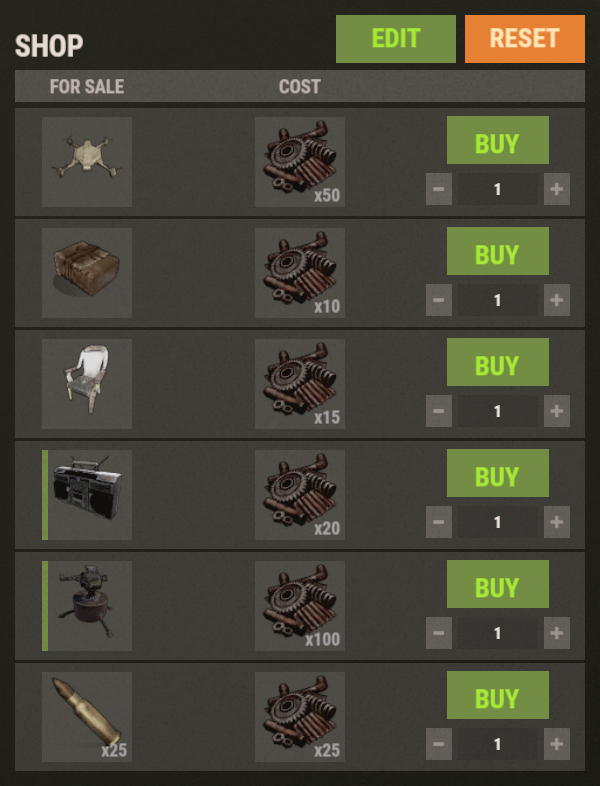
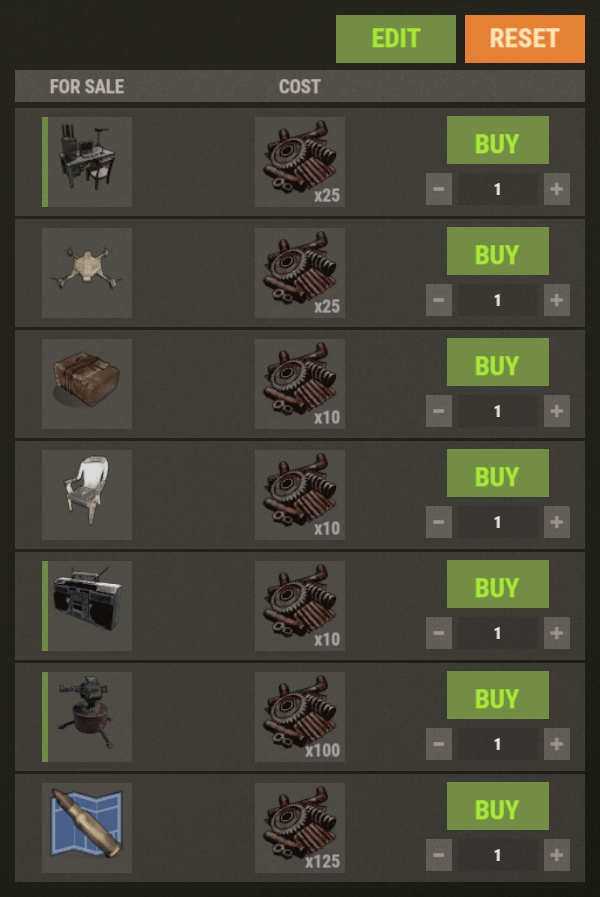
Allow editing stock settings per item

diff --git a/CustomVendingSetup.cs b/CustomVendingSetup.cs
@@ -15,7 +15,7 @@ using static VendingMachine;
 
 namespace Oxide.Plugins
 {
-    [Info("Custom Vending Setup", "WhiteThunder", "2.1.0")]
+    [Info("Custom Vending Setup", "WhiteThunder", "2.2.0")]
     [Description("Allows editing orders at NPC vending machines.")]
     internal class CustomVendingSetup : CovalencePlugin
     {
@@ -31,13 +31,12 @@ namespace Oxide.Plugins
 
         private const string StoragePrefab = "assets/prefabs/deployable/large wood storage/box.wooden.large.prefab";
 
-        private const int NoteItemId = 1414245162;
         private const int ItemsPerRow = 6;
 
         // Going over 7 causes offers to get cut off regardless of resolution.
         private const int MaxVendingOffers = 7;
 
-        private const int NoteSlot = 5;
+        private const int ShopNameNoteSlot = 29;
         private const int ContainerCapacity = 30;
         private const int MaxItemRows = ContainerCapacity / ItemsPerRow;
 
@@ -50,6 +49,7 @@ namespace Oxide.Plugins
         );
 
         private ItemDefinition _blueprintDefinition;
+        private ItemDefinition _noteItemDefinition;
         private bool _serverInitialized = false;
 
         #endregion
@@ -93,6 +93,7 @@ namespace Oxide.Plugins
             Subscribe(nameof(OnEntitySpawned));
 
             _blueprintDefinition = ItemManager.FindItemDefinition("blueprintbase");
+            _noteItemDefinition = ItemManager.FindItemDefinition("note");
             _serverInitialized = true;
         }
 
@@ -401,7 +402,7 @@ namespace Oxide.Plugins
             return offers;
         }
 
-        private static VendingOffer[] GetOffersFromContainer(ItemContainer container)
+        private static VendingOffer[] GetOffersFromContainer(BasePlayer player, ItemContainer container)
         {
             var offers = new List<VendingOffer>();
 
@@ -409,18 +410,15 @@ namespace Oxide.Plugins
             {
                 for (var rowIndex = 0; rowIndex < MaxItemRows; rowIndex++)
                 {
-                    var sellItemSlot = rowIndex * ItemsPerRow + columnIndex * 2;
+                    var sellItemSlot = rowIndex * ItemsPerRow + columnIndex * 3;
 
                     var sellItem = container.GetSlot(sellItemSlot);
                     var currencyItem = container.GetSlot(sellItemSlot + 1);
+                    var settingsItem = container.GetSlot(sellItemSlot + 2);
                     if (sellItem == null || currencyItem == null)
                         continue;
 
-                    offers.Add(new VendingOffer
-                    {
-                        SellItem = VendingItem.FromItem(sellItem),
-                        CurrencyItem = VendingItem.FromItem(currencyItem),
-                    });
+                    offers.Add(VendingOffer.FromItems(player, sellItem, currencyItem, settingsItem));
                 }
             }
 
@@ -455,10 +453,10 @@ namespace Oxide.Plugins
             if (orderIndex < MaxItemRows)
                 return orderIndex * ItemsPerRow;
 
-            return (orderIndex % MaxItemRows) * ItemsPerRow + 2;
+            return (orderIndex % MaxItemRows) * ItemsPerRow + 3;
         }
 
-        private static StorageContainer CreateOrdersContainer(VendingOffer[] vendingOffers, string shopName)
+        private static StorageContainer CreateOrdersContainer(BasePlayer player, VendingOffer[] vendingOffers, string shopName)
         {
             var containerEntity = CreateContainerEntity(StoragePrefab);
 
@@ -466,7 +464,7 @@ namespace Oxide.Plugins
             container.allowedContents = ItemContainer.ContentsType.Generic;
             container.capacity = ContainerCapacity;
 
-            for (var orderIndex = 0; orderIndex < vendingOffers.Length && orderIndex < 2 * MaxItemRows; orderIndex++)
+            for (var orderIndex = 0; orderIndex < vendingOffers.Length && orderIndex < 9; orderIndex++)
             {
                 var offer = vendingOffers[orderIndex];
                 var sellItem = offer.SellItem.Create();
@@ -489,12 +487,37 @@ namespace Oxide.Plugins
                     currencyItem.Remove();
             }
 
-            var noteItem = ItemManager.CreateByItemID(NoteItemId);
-            if (noteItem != null)
+            // Add 7 note items, so the user doesn't have to make them.
+            for (var orderIndex = 0; orderIndex < 7; orderIndex++)
             {
-                noteItem.text = shopName;
-                if (!noteItem.MoveToContainer(container, NoteSlot))
-                    noteItem.Remove();
+                var offer = vendingOffers.Length > orderIndex
+                    ? vendingOffers[orderIndex]
+                    : null;
+
+                var settingsItem = ItemManager.Create(_pluginInstance._noteItemDefinition);
+                if (settingsItem == null)
+                    continue;
+
+                var refillMaxLabel = _pluginInstance.GetMessage(player, Lang.SettingsRefillMax);
+                var refillDelayLabel = _pluginInstance.GetMessage(player, Lang.SettingsRefillDelay);
+                var refillAmountLabel = _pluginInstance.GetMessage(player, Lang.SettingsRefillAmount);
+
+                settingsItem.text = $"{refillMaxLabel}: {offer?.RefillMax ?? VendingOffer.DefaultRefillMax}"
+                    + $"\n{refillDelayLabel}: {offer?.RefillDelay ?? VendingOffer.DefaultRefillDelay}"
+                    + $"\n{refillAmountLabel}: {offer?.RefillAmount ?? VendingOffer.DefaultRefillAmount}";
+
+                var destinationSlot = OrderIndexToSlot(orderIndex);
+
+                if (!settingsItem.MoveToContainer(container, destinationSlot + 2))
+                    settingsItem.Remove();
+            }
+
+            var generalSettingsItem = ItemManager.Create(_pluginInstance._noteItemDefinition);
+            if (generalSettingsItem != null)
+            {
+                generalSettingsItem.text = shopName;
+                if (!generalSettingsItem.MoveToContainer(container, ShopNameNoteSlot))
+                    generalSettingsItem.Remove();
             }
 
             return containerEntity;
@@ -745,13 +768,14 @@ namespace Oxide.Plugins
 
                 var forSaleText = _pluginInstance.GetMessage(player, Lang.InfoForSale);
                 var costText = _pluginInstance.GetMessage(player, Lang.InfoCost);
-                var shopNameText = _pluginInstance.GetMessage(player, Lang.InfoShopName);
+                var settingsText = _pluginInstance.GetMessage(player, Lang.InfoSettings);
 
                 AddHeaderLabel(cuiElements, uiScale, 0, forSaleText);
                 AddHeaderLabel(cuiElements, uiScale, 1, costText);
-                AddHeaderLabel(cuiElements, uiScale, 2, forSaleText);
-                AddHeaderLabel(cuiElements, uiScale, 3, costText);
-                AddHeaderLabel(cuiElements, uiScale, 5, shopNameText);
+                AddHeaderLabel(cuiElements, uiScale, 2, settingsText);
+                AddHeaderLabel(cuiElements, uiScale, 3, forSaleText);
+                AddHeaderLabel(cuiElements, uiScale, 4, costText);
+                AddHeaderLabel(cuiElements, uiScale, 5, settingsText);
 
                 CreateUI(player, cuiElements);
             }
@@ -1085,10 +1109,10 @@ namespace Oxide.Plugins
                     _pluginData.VendingProfiles.Add(Profile);
                 }
 
-                Profile.Offers = GetOffersFromContainer(Container.inventory);
+                Profile.Offers = GetOffersFromContainer(EditorPlayer, Container.inventory);
                 Profile.Broadcast = EditFormState.Broadcast;
 
-                var updatedShopName = Container.inventory.GetSlot(NoteSlot)?.text.Trim();
+                var updatedShopName = Container.inventory.GetSlot(ShopNameNoteSlot)?.text.Trim();
                 if (!string.IsNullOrEmpty(updatedShopName))
                     Profile.ShopName = updatedShopName;
 
@@ -1121,7 +1145,7 @@ namespace Oxide.Plugins
 
                 var offers = Profile?.Offers ?? GetOffersFromVendingMachine(vendingMachine);
 
-                Container = CreateOrdersContainer(offers, vendingMachine.shopName);
+                Container = CreateOrdersContainer(player, offers, vendingMachine.shopName);
                 EditFormState = EditFormState.FromVendingMachine(vendingMachine);
                 Container.SendAsSnapshot(player.Connection);
                 Container.PlayerOpenLoot(player, Container.panelName, doPositionChecks: false);
@@ -1462,6 +1486,10 @@ namespace Oxide.Plugins
 
         private class VendingOffer
         {
+            public const int DefaultRefillMax = 10;
+            public const int DefaultRefillDelay = 10;
+            public const int DefaultRefillAmount = 1;
+
             public static VendingOffer FromVanillaSellOrder(SellOrder sellOrder)
             {
                 return new VendingOffer
@@ -1481,23 +1509,75 @@ namespace Oxide.Plugins
                 };
             }
 
+            public static VendingOffer FromItems(BasePlayer player, Item sellItem, Item currencyItem, Item settingsItem)
+            {
+                var offer = new VendingOffer
+                {
+                    SellItem = VendingItem.FromItem(sellItem),
+                    CurrencyItem = VendingItem.FromItem(currencyItem),
+                };
+
+                if (settingsItem != null)
+                {
+                    var refillMaxLabel = _pluginInstance.GetMessage(player, Lang.SettingsRefillMax);
+                    var refillDelayLabel = _pluginInstance.GetMessage(player, Lang.SettingsRefillDelay);
+                    var refillAmountLabel = _pluginInstance.GetMessage(player, Lang.SettingsRefillAmount);
+
+                    var settings = ParseSettingsItem(settingsItem);
+                    int refillMax, refillDelay, refillAmount;
+
+                    if (settings.TryGetValue(refillMaxLabel, out refillMax))
+                        offer.RefillMax = refillMax;
+
+                    if (settings.TryGetValue(refillDelayLabel, out refillDelay))
+                        offer.RefillDelay = refillDelay;
+
+                    if (settings.TryGetValue(refillAmountLabel, out refillAmount))
+                        offer.RefillAmount = refillAmount;
+                }
+
+                return offer;
+            }
+
+            private static Dictionary<string, int> ParseSettingsItem(Item settingsItem)
+            {
+                var dict = new Dictionary<string, int>();
+                if (string.IsNullOrEmpty(settingsItem.text))
+                    return dict;
+
+                foreach (var line in settingsItem.text.Split('\n'))
+                {
+                    var parts = line.Split(':');
+                    if (parts.Length < 2)
+                        continue;
+
+                    int value;
+                    if (!int.TryParse(parts[1], out value))
+                        continue;
+
+                    dict[parts[0].Trim()] = value;
+                }
+
+                return dict;
+            }
+
             [JsonProperty("SellItem")]
             public VendingItem SellItem;
 
             [JsonProperty("CurrencyItem")]
             public VendingItem CurrencyItem;
 
-            [JsonProperty("RefillAmount", DefaultValueHandling = DefaultValueHandling.Ignore)]
-            [DefaultValue(1)]
-            public int RefillAmount = 1;
+            [JsonProperty("RefillMax", DefaultValueHandling = DefaultValueHandling.Ignore)]
+            [DefaultValue(DefaultRefillMax)]
+            public int RefillMax = DefaultRefillMax;
 
             [JsonProperty("RefillDelay", DefaultValueHandling = DefaultValueHandling.Ignore)]
-            [DefaultValue(10f)]
-            public float RefillDelay = 10;
+            [DefaultValue(DefaultRefillDelay)]
+            public int RefillDelay = DefaultRefillDelay;
 
-            [JsonProperty("RefillMax", DefaultValueHandling = DefaultValueHandling.Ignore)]
-            [DefaultValue(10)]
-            public int RefillMax = 10;
+            [JsonProperty("RefillAmount", DefaultValueHandling = DefaultValueHandling.Ignore)]
+            [DefaultValue(DefaultRefillAmount)]
+            public int RefillAmount = DefaultRefillAmount;
 
             private SellOrder _sellOrder;
             [JsonIgnore]
@@ -1687,7 +1767,10 @@ namespace Oxide.Plugins
             public const string ButtonSave = "Button.Save";
             public const string ButtonCancel = "Button.Cancel";
             public const string InfoCost = "Info.Cost";
-            public const string InfoShopName = "Info.Name";
+            public const string InfoSettings = "Info.Settings";
+            public const string SettingsRefillMax = "Settings.RefillMax";
+            public const string SettingsRefillDelay = "Settings.RefillDelay";
+            public const string SettingsRefillAmount = "Settings.RefillAmount";
             public const string ErrorCurrentlyBeingEdited = "Error.CurrentlyBeingEdited";
         }
 
@@ -1701,7 +1784,10 @@ namespace Oxide.Plugins
                 [Lang.ButtonReset] = "RESET",
                 [Lang.InfoForSale] = "FOR SALE",
                 [Lang.InfoCost] = "COST",
-                [Lang.InfoShopName] = "NAME",
+                [Lang.InfoSettings] = "SETTINGS",
+                [Lang.SettingsRefillMax] = "Max Stock",
+                [Lang.SettingsRefillDelay] = "Seconds Between Refills",
+                [Lang.SettingsRefillAmount] = "Refill Amount",
                 [Lang.ErrorCurrentlyBeingEdited] = "That vending machine is currently being edited by {0}.",
             }, this, "en");
         }

diff --git a/README.md b/README.md
@@ -7,9 +7,9 @@
 - Allows customizing items sold at monument vending machines
 - Supports vanilla monuments, custom monuments, train tunnels, and underwater labs (via Monument Finder)
 - Saves customizations for future restarts and wipes, based on the vending machine's relative position to the monument
-- Synchronizes orders with copies of the vending machines at duplicate monuments
+- Synchronizes edits with copies of the vending machines at duplicate monuments
 - Compatible with NPC vending machines spawned at monuments by plugins such as [Monument Addons](https://umod.org/plugins/monument-addons)
-- Supports items with custom skins and names
+- Supports blueprints, as well as items with custom skins and names
 
 ## Required plugins
 
@@ -20,9 +20,10 @@
 When you open an NPC vending machine at a monument, if you have permission, you will see an edit button. Clicking that edit button will reveal a container UI where you can customize the vending machine.
 
 - Change which items are sold, and their prices, by adding and removing items from the container
-- Rearrange items in the container to determine their order in the shop view
+- Change display order by rearranging items in the container
+- Change stock settings by editing the note next to each item
 - Toggle whether the map marker is enabled by clicking on the broadcast icon (green = on, gray = off)
-- Change the shop name by clicking on the note and editing its contents (supports multiple lines)
+- Change the shop name by clicking on the bottom-right note and editing its contents (supports multiple lines)
 - Save the changes by clicking the "SAVE" button
 
 ## Permissions
@@ -33,7 +34,9 @@ When you open an NPC vending machine at a monument, if you have permission, you 
 
 ![](https://raw.githubusercontent.com/WheteThunger/CustomVendingSetup/master/ShopView.png)
 
-![](https://raw.githubusercontent.com/WheteThunger/CustomVendingSetup/master/ContainerView.png)
+![](https://raw.githubusercontent.com/WheteThunger/CustomVendingSetup/master/ContainerViewStock.png)
+
+![](https://raw.githubusercontent.com/WheteThunger/CustomVendingSetup/master/ContainerViewName.png)
 
 ## Localization
 
@@ -45,7 +48,10 @@ When you open an NPC vending machine at a monument, if you have permission, you 
   "Button.Reset": "RESET",
   "Info.ForSale": "FOR SALE",
   "Info.Cost": "COST",
-  "Info.Name": "NAME",
+  "Info.Settings": "SETTINGS",
+  "Settings.RefillMax": "Max Stock",
+  "Settings.RefillDelay": "Seconds Between Refills",
+  "Settings.RefillAmount": "Refill Amount",
   "Error.CurrentlyBeingEdited": "That vending machine is currently being edited by {0}."
 }
 ```
